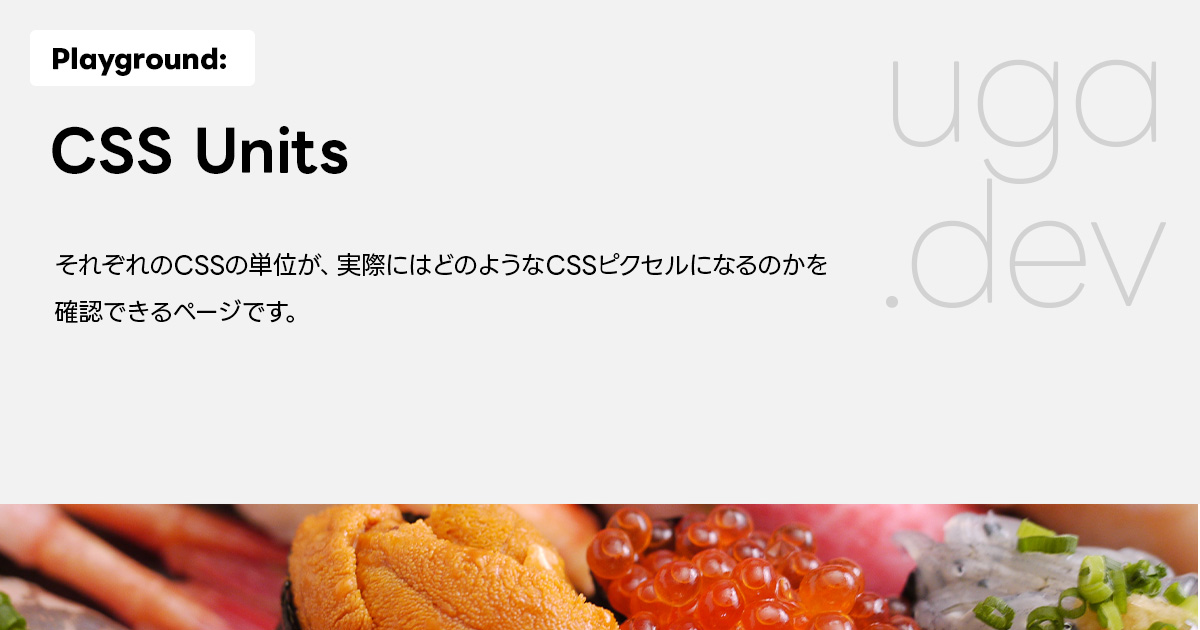
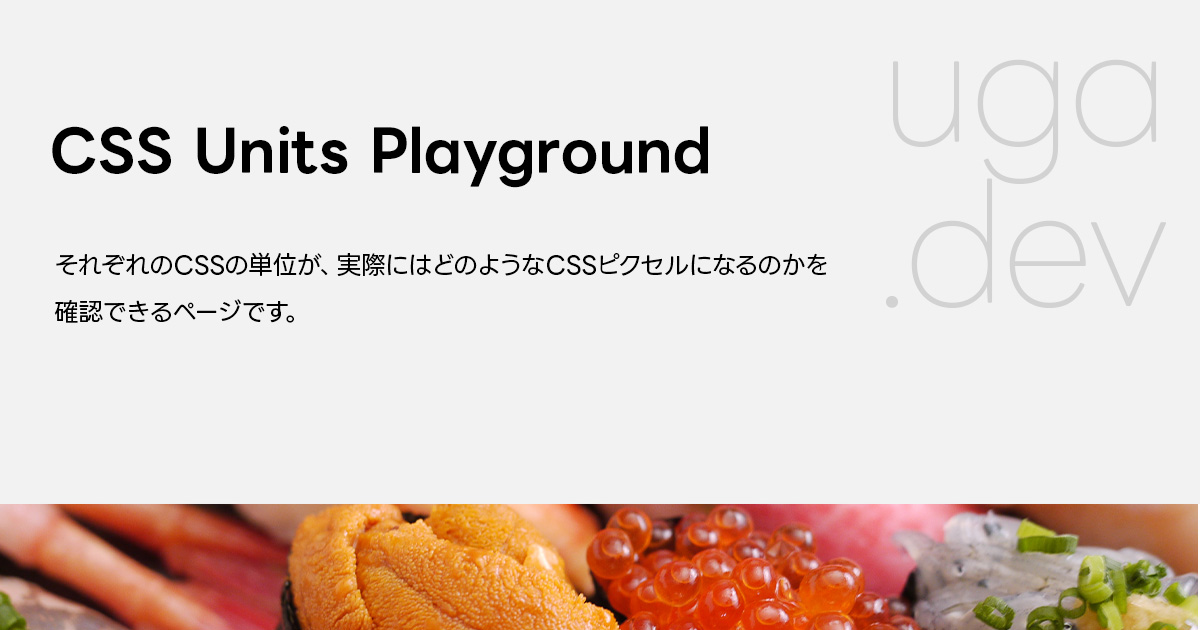
Update page titles

Changed region(s): [[0.3083, 0.181, 0.6167, 0.3016], [0.0308, 0.0603, 0.185, 0.1206]]

diff --git a/src/app/(ja)/page.tsx b/src/app/(ja)/page.tsx
@@ -103,13 +103,13 @@ export default function Home() {
                 {
                   emoji: '📛',
                   href: '/tools/accessible-name-and-description-computation/',
-                  title: 'Playground: Accessible Name and Description Computation',
+                  title: 'Accessible Name and Description Computation Playground',
                   description: 'アクセシブルな名前および説明がどう計算されるかをテストするためのページです。',
                 },
                 {
                   emoji: '👆',
                   href: '/tools/touch-event-touches',
-                  title: 'Playground: TouchEvent.touches',
+                  title: 'TouchEvent.touches Playground',
                   description: 'デバイスのタッチ操作が利用可能か、何本の指でタッチできるのかをテストできます。',
                 },
                 {

diff --git a/src/app/(ja)/(common)/tools/accessible-name-and-description-computation/page.tsx b/src/app/(ja)/(common)/tools/accessible-name-and-description-computation/page.tsx
@@ -6,11 +6,11 @@ import { Metadata } from '@/types/seo';
 import { useId } from 'react';
 
 export const metadata: Metadata = {
-  title: 'Playground: Accessible Name and Description Computation',
+  title: 'Accessible Name and Description Computation Playground',
   description: 'アクセシブルな名前および説明がどう計算されるかをテストするためのページです。',
   twitter: {
     card: 'summary_large_image',
-    title: 'Playground: Accessible Name and Description Computation',
+    title: 'Accessible Name and Description Computation Playground',
     description: 'アクセシブルな名前および説明がどう計算されるかをテストするためのページです。',
   },
 };

diff --git a/src/app/(ja)/(common)/tools/touch-event-touches/page.tsx b/src/app/(ja)/(common)/tools/touch-event-touches/page.tsx
@@ -3,11 +3,11 @@ import { PageTitle } from '@/components/structures/PageTitle';
 import { Metadata } from '@/types/seo';
 
 export const metadata: Metadata = {
-  title: 'Playground: TouchEvent.touches',
+  title: 'TouchEvent.touches Playground',
   description: 'デバイスのタッチ操作が利用可能か、何本の指でタッチできるのかをテストできます。',
   twitter: {
     card: 'summary_large_image',
-    title: 'Playground: TouchEvent.touches',
+    title: 'TouchEvent.touches Playground',
     description: 'デバイスのタッチ操作が利用可能か、何本の指でタッチできるのかをテストできます。',
   },
 };

diff --git a/src/app/(ja)/(common)/tools/css-units/page.tsx b/src/app/(ja)/(common)/tools/css-units/page.tsx
@@ -5,11 +5,11 @@ import { Metadata } from '@/types/seo';
 import { useId } from 'react';
 
 export const metadata: Metadata = {
-  title: 'Playground: CSS Units',
+  title: 'CSS Units Playground',
   description: 'それぞれのCSSの単位が、実際にはどのようなCSSピクセルになるのかを確認できるページです。',
   twitter: {
     card: 'summary_large_image',
-    title: 'Playground: CSS Units',
+    title: 'CSS Units Playground',
     description: 'それぞれのCSSの単位が、実際にはどのようなCSSピクセルになるのかを確認できるページです。',
   },
 };

diff --git a/src/app/(ja)/(common)/tools/dom-events-watcher/page.tsx b/src/app/(ja)/(common)/tools/dom-events-watcher/page.tsx
@@ -5,11 +5,11 @@ import { Metadata } from '@/types/seo';
 import { useId } from 'react';
 
 export const metadata: Metadata = {
-  title: 'Playground: DOM Event Watcher',
+  title: 'DOM Event Playground',
   description: 'JavaScriptがどのようなイベントを受け取るのかを確認できます。',
   twitter: {
     card: 'summary_large_image',
-    title: 'Playground: DOM Event Watcher',
+    title: 'DOM Event Playground',
     description: 'JavaScriptがどのようなイベントを受け取るのかを確認できます。',
   },
 };
